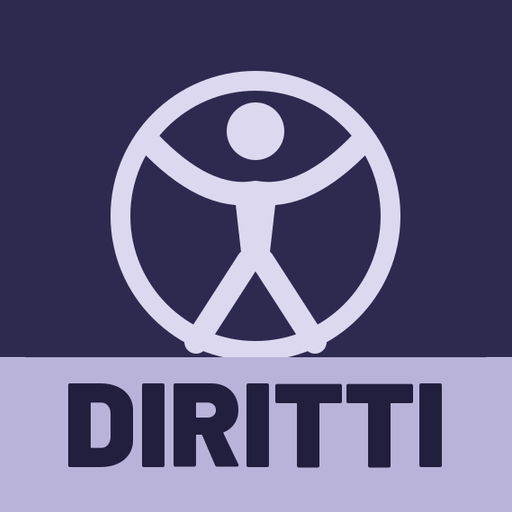
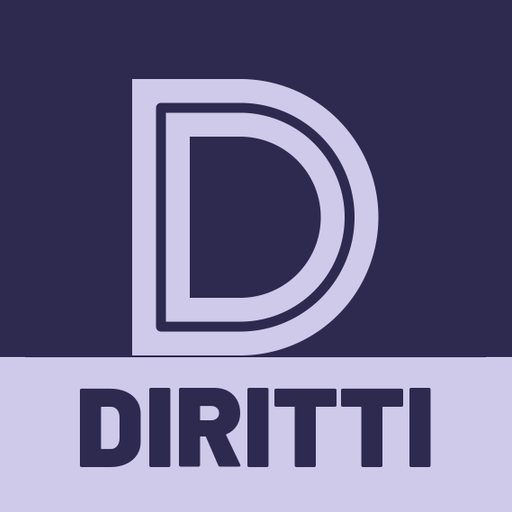
Add files via upload

Changed region(s): [[0.125, 0.125, 0.875, 0.9375]]

diff --git a/data.js b/data.js
@@ -97,7 +97,7 @@ const SCHEDE = [
     spetta: p => 'forse' },
   { ambito: 'fisco', codice: 'F6', titolo: 'Casa e barriere architettoniche',
     aChi: 'Chi fa lavori in casa.',
-    cosa: 'Il bonus barriere al 75% è finito con le spese del 2025. Nel 2026 resta il recupero edilizio: 50% sull\'abitazione principale (36% sulle altre), su massimo 96.000 euro.',
+    cosa: 'Recupero edilizio: 50% sull\'abitazione principale (36% sulle altre), su massimo 96.000 euro.',
     come: 'Bonifico parlante e dichiarazione dei redditi.',
     fonte: 'https://www.agenziaentrate.gov.it', verifica: 'ok', note: '',
     spetta: p => 'forse' },
@@ -168,7 +168,7 @@ const SCHEDE = [
     come: 'Online su Roma Servizi per la Mobilità con SPID o CIE, oppure allo sportello di via Silvio D\'Amico.',
     fonte: 'https://romamobilita.it', verifica: 'ok',
     note: 'Dal 22 agosto 2026 nelle ZTL entra solo la targa indicata come principale.',
-    spetta: p => (cieco(p) || p.tipo.includes('motoria')) ? 'si' : 'no' },
+    spetta: p => (cieco(p) || p.deamb) ? 'si' : (p.tipo.includes('motoria') ? 'forse' : 'no') },
   { ambito: 'mobilita', codice: 'M2', titolo: 'Carta Blu Trenitalia',
     aChi: 'Chi ha l\'indennità di accompagnamento (anche ciechi assoluti).',
     cosa: 'L\'accompagnatore viaggia gratis: un biglietto a prezzo intero vale per due. Gratuita, dura 5 anni.',
@@ -240,7 +240,7 @@ const SCHEDE = [
     cosa: 'A Roma: assegno di cura di 800 euro al mese oppure contributo di 700 euro al mese al caregiver.',
     come: 'Chiedere al servizio sociale del Municipio.',
     fonte: 'https://www.regione.lazio.it', verifica: 'ok', note: 'Con la sola cecità non spetta. Canale di domanda da verificare.',
-    spetta: p => (p.cecita === 'assoluta' && p.tipo.includes('uditiva')) ? 'forse' : 'no' },
+    spetta: p => (p.cecita === 'assoluta' && p.sordo) ? 'forse' : 'no' },
   { ambito: 'sociale', codice: 'C3', titolo: 'Caregiver familiare',
     aChi: 'Familiari che assistono una persona con disabilità.',
     cosa: 'Riconoscimento formale come caregiver (legge regionale 5/2024). Contributo una tantum sperimentale (delibera 1317/2025).',

diff --git a/index.html b/index.html
@@ -7,15 +7,15 @@
 <meta name="color-scheme" content="dark">
 <title>Diritti</title>
 <link rel="manifest" href="manifest.json">
-<link rel="icon" href="icon-192.png">
+<link rel="icon" href="icon-192.png?v=1.0.6">
 <link rel="apple-touch-icon" href="icon-192.png">
-<link rel="stylesheet" href="style.css?v=1.0.5">
+<link rel="stylesheet" href="style.css?v=1.0.6">
 <style>html,body{background:#17151F}</style>
 </head>
 <body>
 <header class="barra">
-  <a href="#/" class="logo" aria-label="Diritti, vai alla home"><img src="icon-192.png" alt="" width="30" height="30"><span class="nome-app">Diritti</span></a>
-  <span id="versione" class="versione" aria-label="Versione">v1.0.5</span>
+  <a href="#/" class="logo" aria-label="Diritti, vai alla home"><img src="icon-192.png?v=1.0.6" alt="" width="30" height="30"><span class="nome-app">Diritti</span></a>
+  <span id="versione" class="versione" aria-label="Versione">v1.0.6</span>
 </header>
 <main id="contenuto" tabindex="-1"></main>
 <nav class="menu" aria-label="Menu">
@@ -24,7 +24,7 @@
   <button class="btn-piccolo" data-vai="#/profilo">Profilo</button>
   <button class="btn-piccolo" data-vai="#/avviso">Avviso</button>
 </nav>
-<script src="data.js?v=1.0.5"></script>
-<script src="app.js?v=1.0.5"></script>
+<script src="data.js?v=1.0.6"></script>
+<script src="app.js?v=1.0.6"></script>
 </body>
 </html>

diff --git a/app.js b/app.js
@@ -1,5 +1,5 @@
 // Diritti – logica dell'app. Il profilo resta solo sul telefono (localStorage).
-const VERSIONE = 'v1.0.5';
+const VERSIONE = 'v1.0.6';
 const K_PROFILO = 'diritti_profilo';
 const K_AVVISO = 'diritti_avviso';   // { data: ISO, ver: n } – registro dell'accettazione
 const AVVISO_VER = 1;                // aumentarlo se cambia il testo dell'avviso: verrà richiesto di nuovo

diff --git a/sw.js b/sw.js
@@ -1,5 +1,5 @@
 // Diritti – service worker: funziona anche offline. Cambiare CACHE a ogni nuova versione.
-const CACHE = 'diritti-v1.0.5';
+const CACHE = 'diritti-v1.0.6';
 const FILE = ['./', 'index.html', 'style.css', 'app.js', 'data.js', 'manifest.json',
   'icon-192.png', 'icon-512.png', 'icon-maskable-512.png'];
 

diff --git a/Diritti_progetto.md b/Diritti_progetto.md
@@ -3,7 +3,7 @@
 **Nome app:** Diritti (nome breve sotto l'icona) · **Scritta nella fascia dell'icona:** DIRITTI · **Cartella:** C:\Appoggio-Claude\DIRITTI
 
 **Ultimo aggiornamento:** 10 novembre 2026
-**Stato:** v1.0.4 (11/11/2026).
+**Stato:** v1.0.6 (11/11/2026).
 
 ---
 
@@ -60,7 +60,7 @@ Vincoli che ne derivano:
 - il profilo va salvato solo sul telefono, senza server (altrimenti l'ultima frase non è vera);
 - prima di pubblicare l'app per altri, far rileggere il testo da un legale o da un'associazione (es. UICI).
 
-### Icona (scelta provvisoria del 10/11/2026: variante A2)
+### Icona precedente (A2, sostituita l'11/11/2026 – vedi v1.0.6)
 Standard comune: C:\Appoggio-Claude\ICONE\ICONE-DELLE-MIE-APP.md (fascia da y=369, Barlow Black 132 px, base y=491).
 - Disegno: persona stilizzata con braccia aperte dentro un cerchio, i piedi toccano il cerchio (tipo Uomo vitruviano). Simbolo di accessibilità, **senza** sedia a rotelle.
 - Colori: sfondo #2E2A4F · fascia #B9B3D9 · scritta #221E3D · disegno #DCD8F0
@@ -228,4 +228,25 @@ PWA accessibile e gratuita per scoprire le agevolazioni per persone con disabili
 - Titolo della home: "I tuoi diritti".
 - Avviso: per proseguire bisogna spuntare "Ho letto l'avviso e lo accetto" e premere "Accetto". Si salva data e ora dell'accettazione (chiave `diritti_avviso` = {data, ver}); nella pagina Avviso compare "Avviso letto e accettato il …". Se in futuro cambia il testo, aumentare `AVVISO_VER` in app.js: l'accettazione verrà richiesta di nuovo. La vecchia chiave `diritti_avviso_letto` non vale più (chi aveva la v1.0.3 deve accettare di nuovo).
 - Limite: il registro resta solo sul telefono (coerente con "i dati restano sul telefono"); non è una prova verso terzi e si perde cancellando i dati dell'app.
+
+### v1.0.5 (11/11/2026)
+- Titolo della home di nuovo "Agevolazioni spettanti".
+- Corretto errore: dopo "Accetto" l'app restava sull'avviso se l'indirizzo era già `#/` (nessun cambio di indirizzo, quindi nessun aggiornamento). Ora dopo "Accetto" si va sempre alla home; se il profilo manca, la home invita a compilarlo. Provati 5 casi di avvio diversi.
+
+### v1.0.6 (11/11/2026) – nuova icona "E1 diritta"
+- Disegno: D grande e diritta (per Diritti e Disabilità), occhiello aperto, con una riga sottile scura a metà spessore che forma una seconda D interna (ispirazione: stile moderno tipo logo Formula 1, ma disegno originale). La D poggia sulla fascia con 2 px di stacco.
+- **Due soli colori**: scuro #2E2A4F (sfondo, scritta, riga interna) · chiaro #CFC9EA (fascia, D).
+- Scritta DIRITTI a **124 px** (eccezione allo standard di 132 px: a 132 tocca gli angoli; a 124 è larga 399 px, come PASTA). Base y=491, fascia da y=369.
+- Maskable al 90% con margini: sopra scuro, sotto chiaro.
+- Scartate: D1 (D tagliata), D3 (sembra la lettera "Đ"), D4, E1 obliqua, E2, E3, E4.
+- Icone con `?v=1.0.6` in manifest.json e index.html per forzare l'aggiornamento. Su Android l'icona dell'app installata può metterci qualche giorno ad aggiornarsi (lo decide Chrome); per averla subito: disinstallare e reinstallare la PWA.
+
+SVG del disegno (512×512, prima della fascia):
+```svg
+<rect width="512" height="512" fill="#2E2A4F"/>
+<g transform="translate(-11 0)">
+<path d="M130 60 H250 A153.5 153.5 0 0 1 250 367 H130 Z M194 124 H250 A89.5 89.5 0 0 1 250 303 H194 Z" fill="#CFC9EA" fill-rule="evenodd"/>
+<path d="M162 92 H250 A121.5 121.5 0 0 1 250 335 H162 Z" fill="none" stroke="#2E2A4F" stroke-width="11" stroke-linejoin="round"/>
+</g>
+```
 
